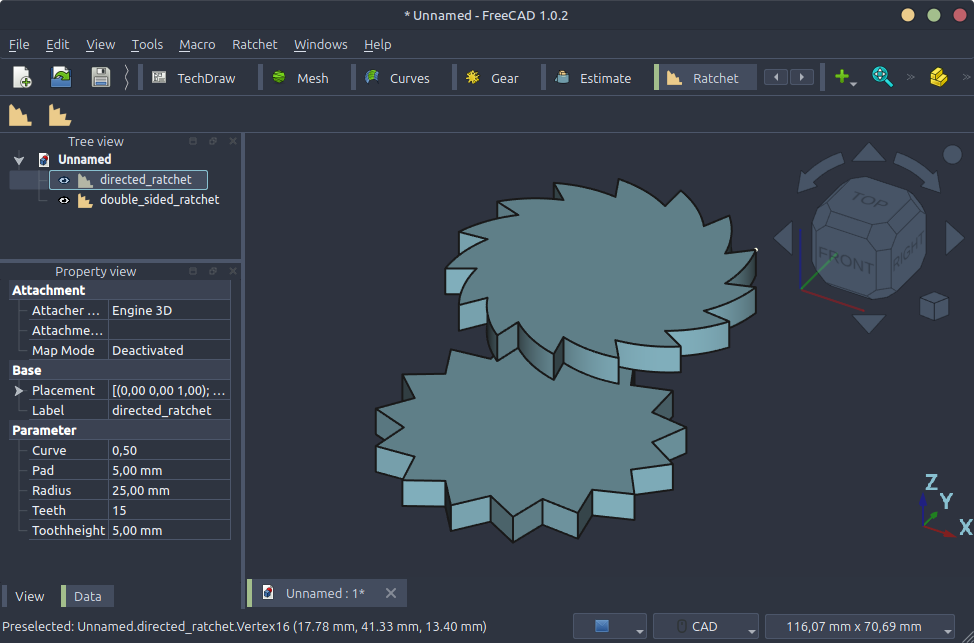
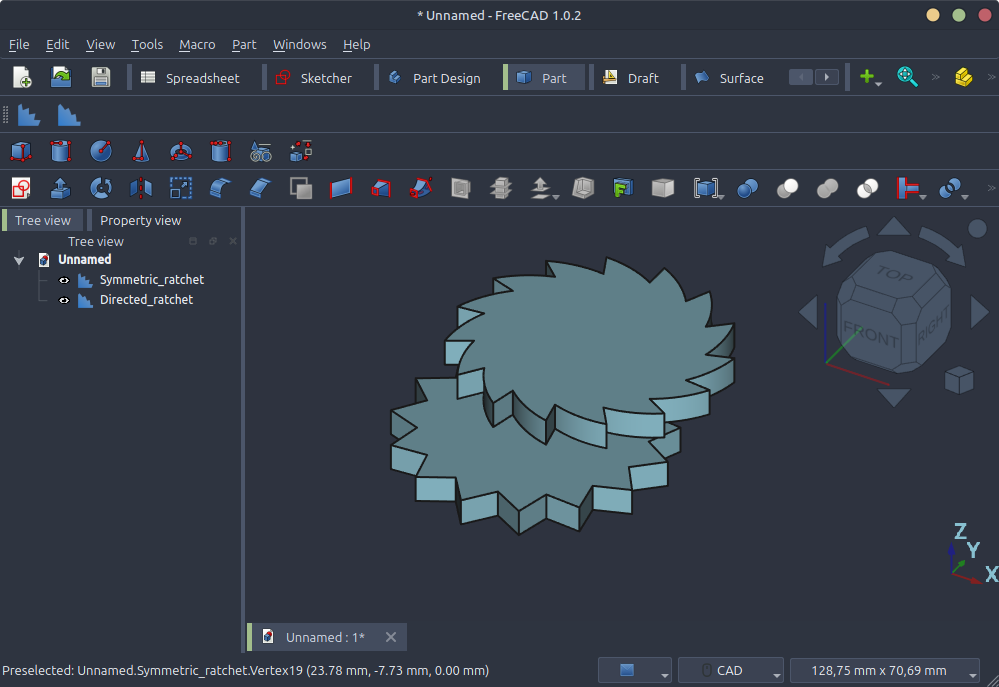
version bump  after codebase update

diff --git a/freecad/Ratchet/Misc/Version.py b/freecad/Ratchet/Misc/Version.py
@@ -2,4 +2,4 @@
 # SPDX-FileNotice: Part of the Ratchet addon.
 
 
-Version = '0.1.0'
+Version = '0.2.0'

diff --git a/Resources/Documents/Overview.md b/Resources/Documents/Overview.md
@@ -5,11 +5,13 @@
 
 A FreeCAD workbench to create ratchets
 
-Considering manually constructing circular ratchets an annoing task you can now choose between the automated creation of ratchets that allow only for one direction or ratches that allow both directions. For inset mechanisms you can just subtract the generated shape.
+Considering manually constructing circular ratchets an annoying task you can now choose between the automated creation of ratchets that allow only for one direction or ratches that allow both directions. For inset mechanisms you can just subtract the generated shape.
 
 ![screenshot](https://raw.githubusercontent.com/erroronline1/ratchetWB/master/Resources/Media/Preview.png)
 
 ### Usage
+
+The functions are available through the Part-workbench.
 
 Add one of the desired geometries either as a part or as part of an active body. Change values regarding e.g. size and number of teeth within the models property settings. Possibly edit the Curve-property for inset directed ratchets.
 

diff --git a/README.md b/README.md
@@ -17,6 +17,8 @@ FreeCAD addon for ratchet creation.
 
 ## Usage
 
+The functions are available through the Part-workbench.
+
 Add one of the desired geometries either as a part or as part of an active body. Change values regarding e.g. size and number of teeth within the models property settings. Possibly edit the Curve-property for inset directed ratchets.
 
 There is not a complete failsafe mechanism to avoid all possible meaningless values!  

diff --git a/CHANGELOG.md b/CHANGELOG.md
@@ -15,5 +15,17 @@
 
 <br/>
 
+## [0.2.0] - 2026-03-16
 
-[0.1.0]: #
+### Added
+
+-   New codebase by phonedroid
+
+-   Proper translations
+
+-   Integration into Part workbench instead of standalone
+
+<br/>
+
+[0.1.0]: https://github.com/erroronline1/ratchetWB/releases/tag/v0.1.0
+[0.2.0]: https://github.com/erroronline1/ratchetWB/releases/tag/v0.2.0
